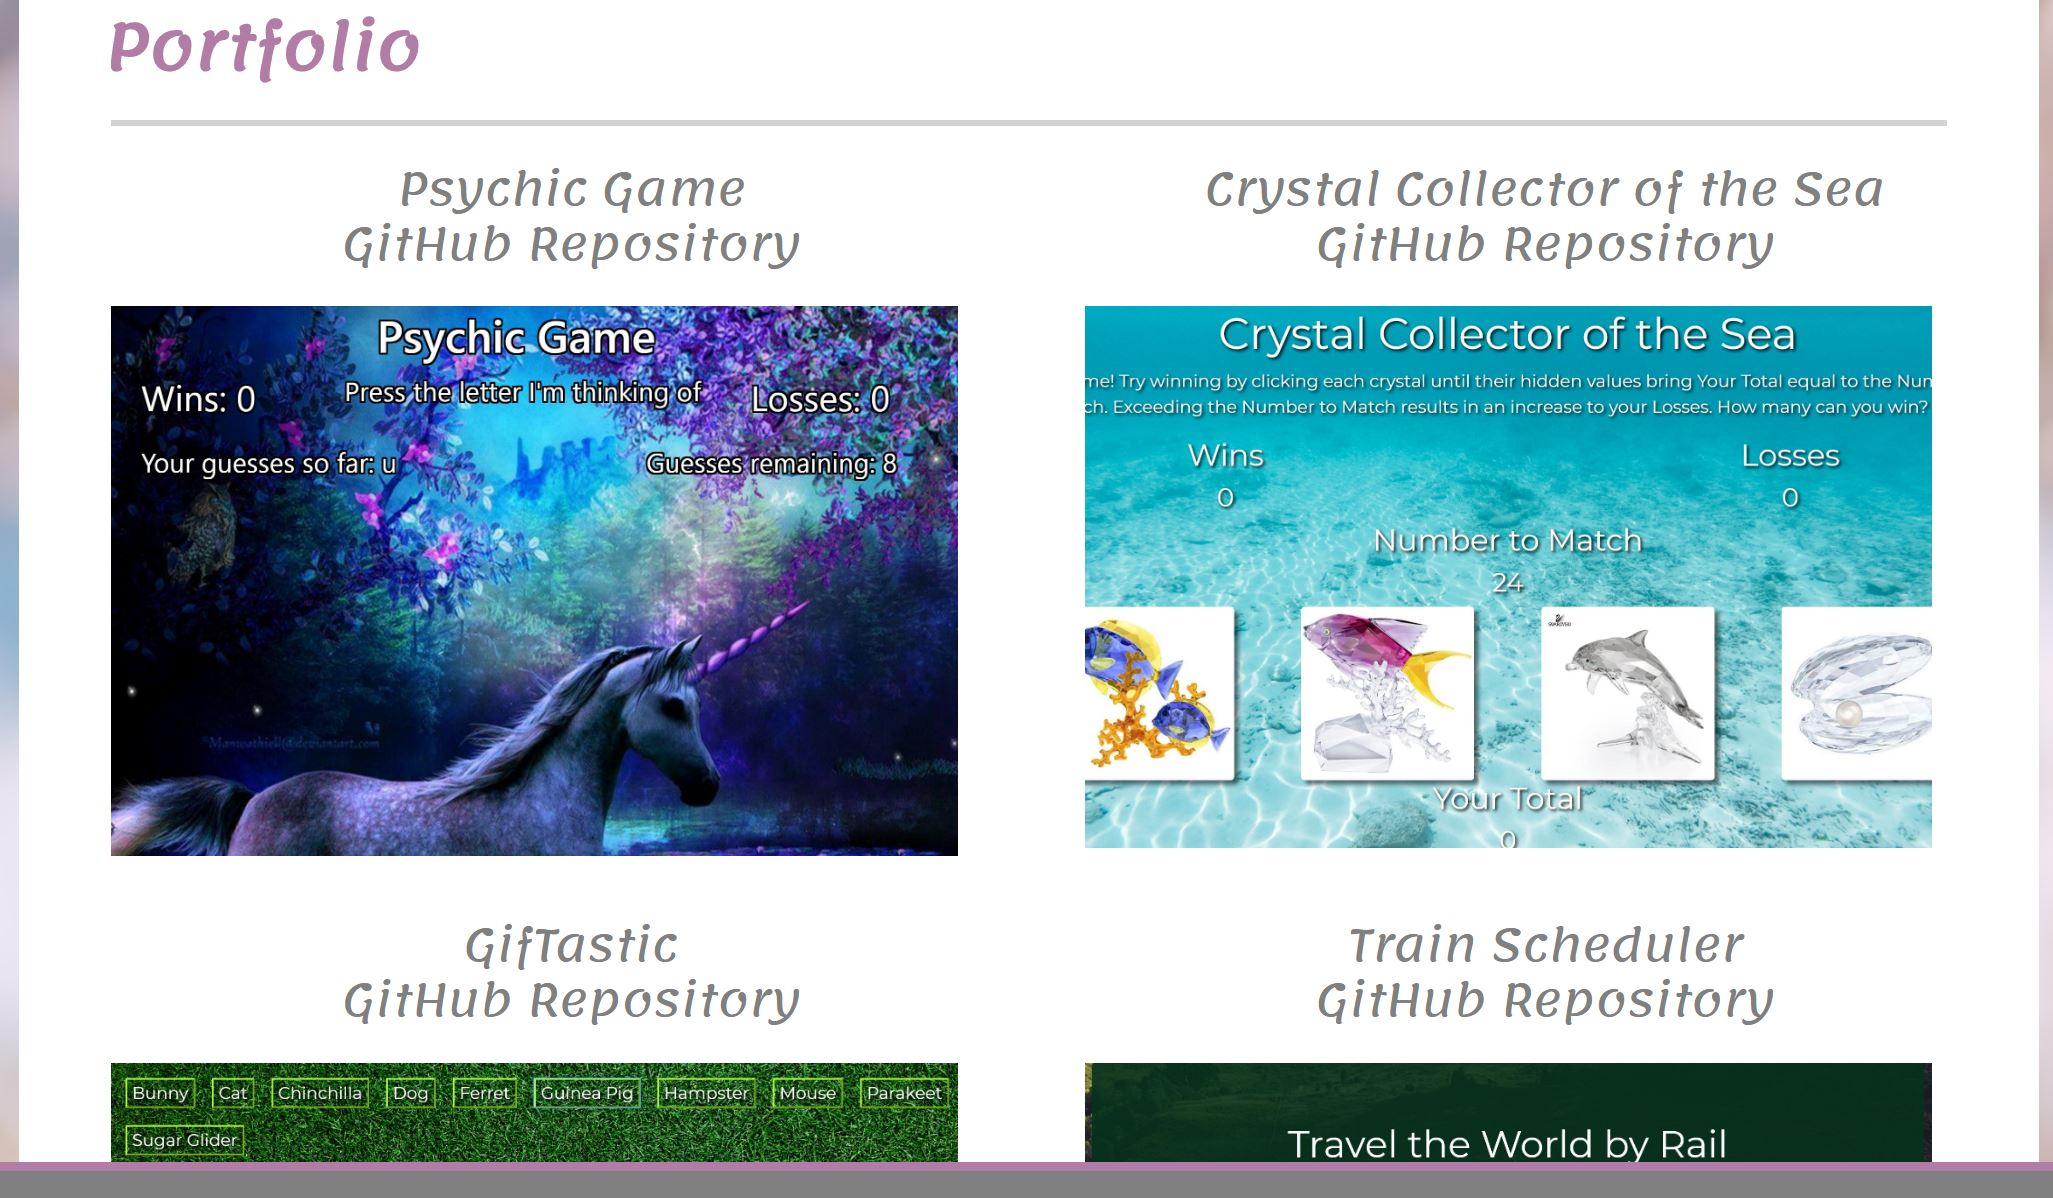
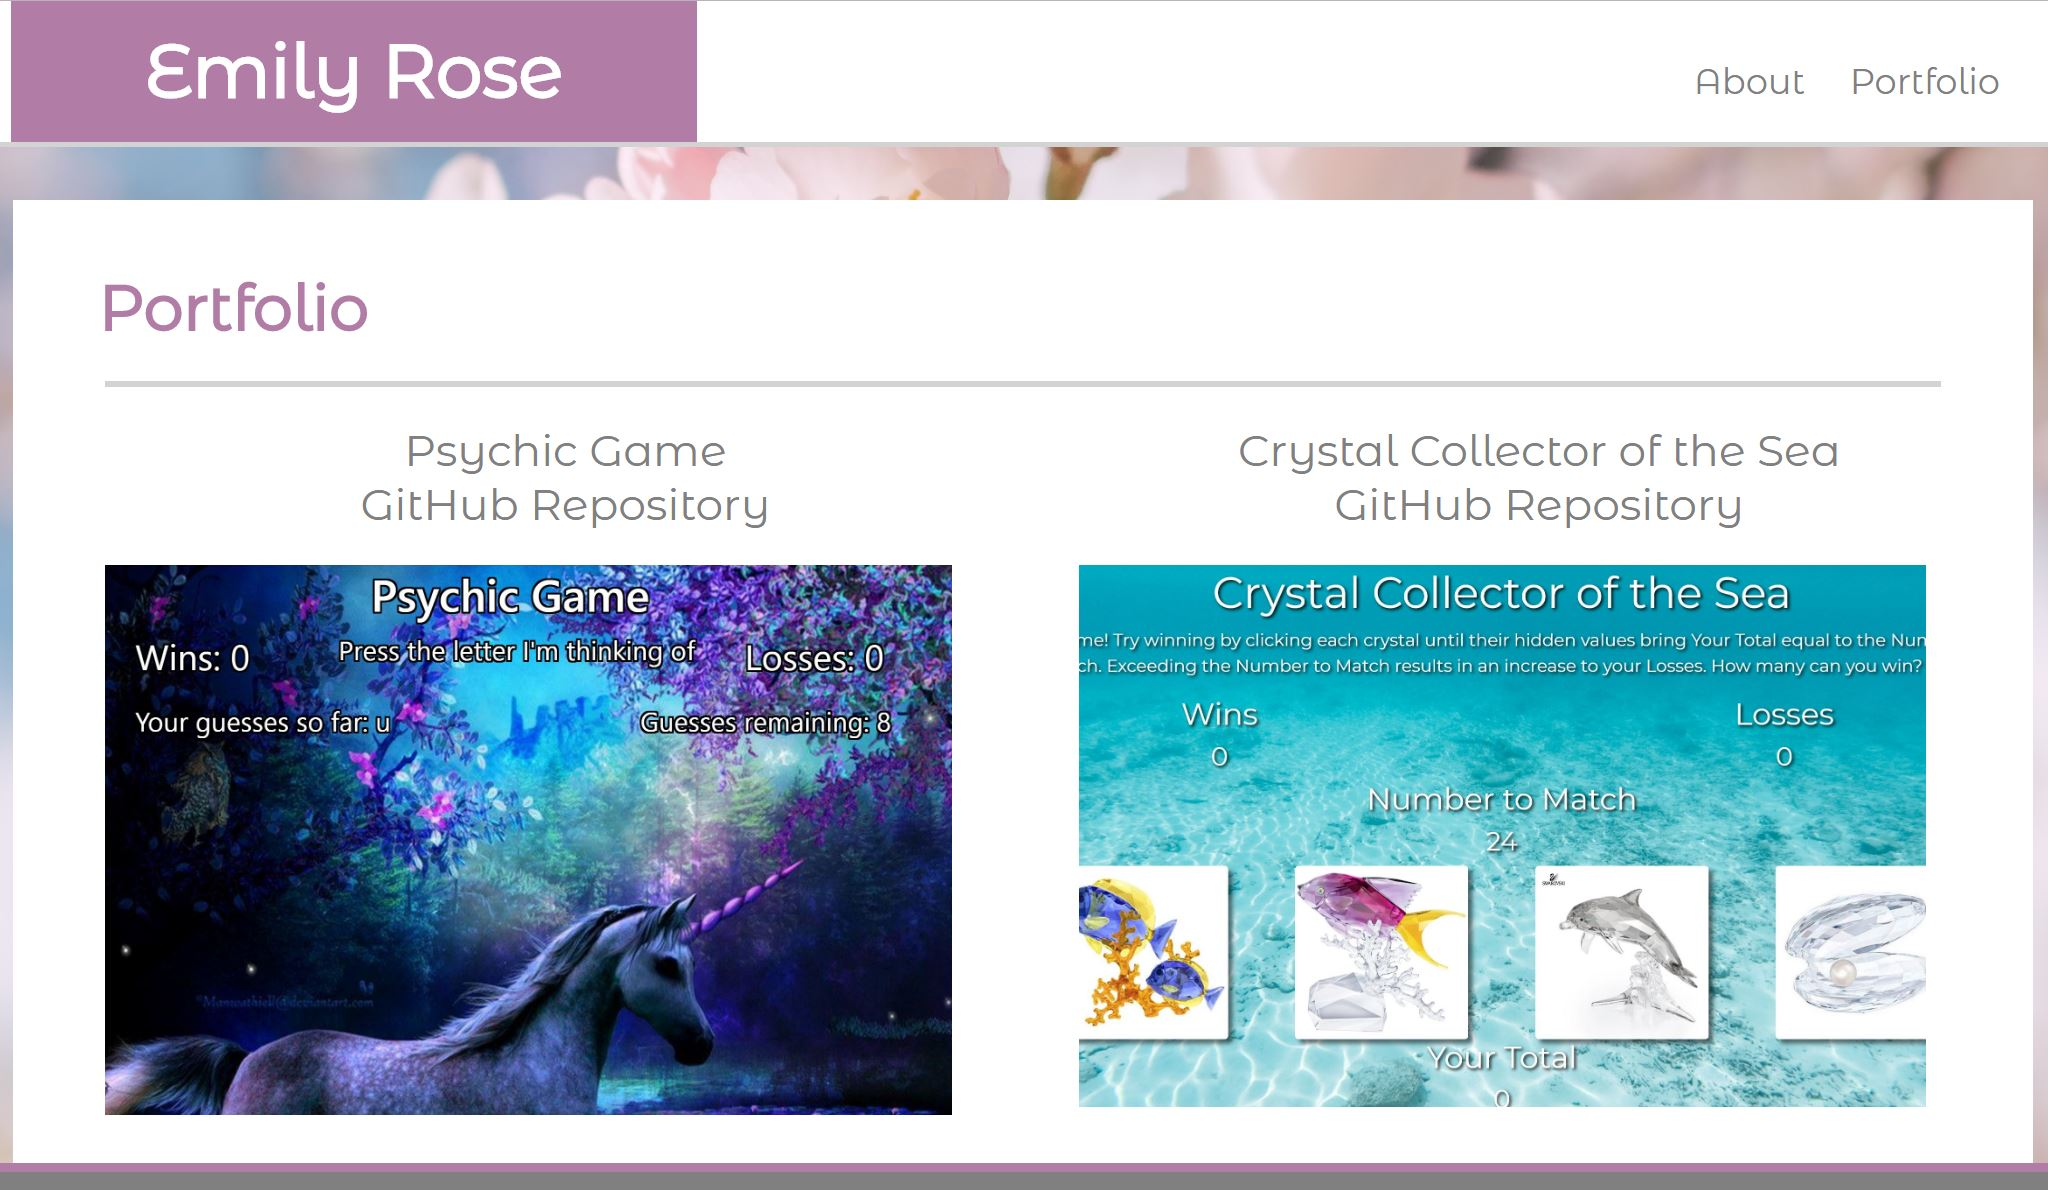
Changes to font & images

diff --git a/assets/css/style.css b/assets/css/style.css
@@ -1,4 +1,4 @@
-@import url('https://fonts.googleapis.com/css?family=Lemonada&display=swap');
+@import url('https://fonts.googleapis.com/css?family=Montserrat+Alternates&display=swap');
 * {
     box-sizing: border-box;
 }
@@ -24,7 +24,7 @@ h1 {
     margin-right: -20px;
     padding: 15px;
     background-color: #B17CA5;
-    font-family: 'Lemonada', cursive;
+    font-family: 'Montserrat Alternates', sans-serif;
     color: white;
     text-align: center;
     font-weight: bold;
@@ -44,7 +44,7 @@ nav {
 
 a {
     color: gray;
-    font-family: 'Lemonada', cursive;
+    font-family: 'Montserrat Alternates', sans-serif;
 }
 
 .divider {
@@ -64,7 +64,7 @@ a {
 h2 {
     padding-left: 30px;
     padding-top: 40px;
-    font-family: 'Lemonada', cursive;
+    font-family: 'Montserrat Alternates', sans-serif;
     color: #B17CA5;
     font-size: 36px;
     font-weight: bold;
@@ -88,7 +88,7 @@ hr {
 p.bioTop {
     margin-left: 45px;
     padding-right: 45px;
-    font-family: 'Lemonada', cursive;
+    font-family: 'Montserrat Alternates', sans-serif;
     line-height: 30px;
     color: gray;
 }
@@ -96,7 +96,7 @@ p.bioTop {
 p.bioMiddle {
     padding-left: 45px;
     margin-right: 30px;
-    font-family: 'Lemonada', cursive;
+    font-family: 'Montserrat Alternates', sans-serif;
     line-height: 30px;
     color: gray;
 }
@@ -105,7 +105,7 @@ p.bioBottom {
     margin-left: 45px;
     margin-right: 30px;
     padding-bottom: 20px;
-    font-family: 'Lemonada', cursive;
+    font-family: 'Montserrat Alternates', sans-serif;
     line-height: 30px;
     color: gray;
 }
@@ -143,7 +143,7 @@ footer {
     padding-top: 15px;
     padding-bottom: 15px;
     padding-right: 5px;
-    font-family: 'Lemonada', cursive;
+    font-family: 'Montserrat Alternates', sans-serif;
     color: white;
     position: fixed;
     bottom: 0;
